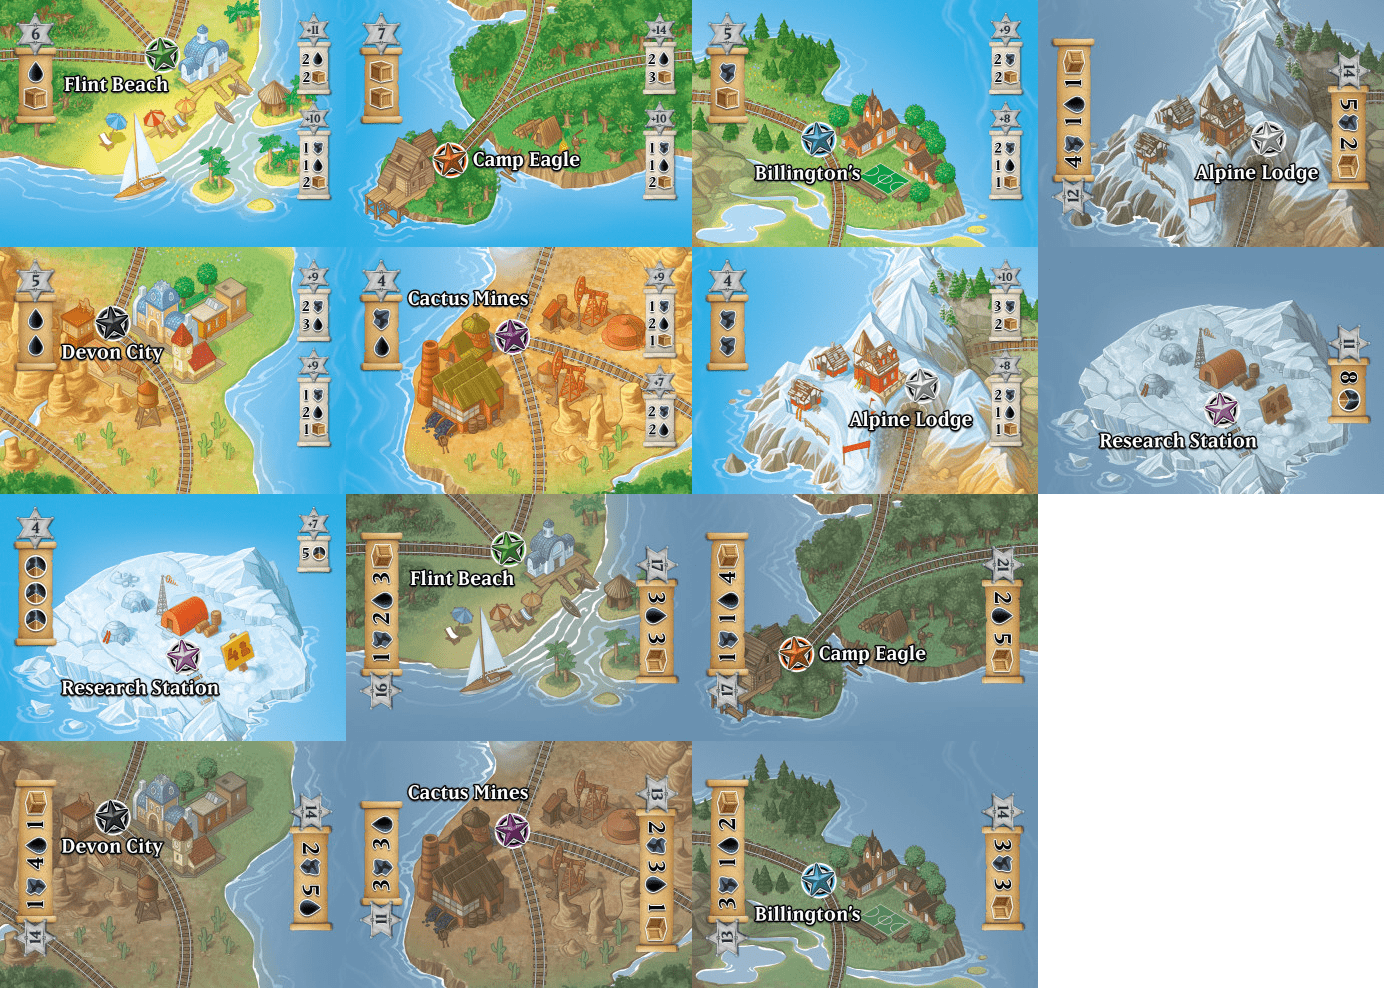
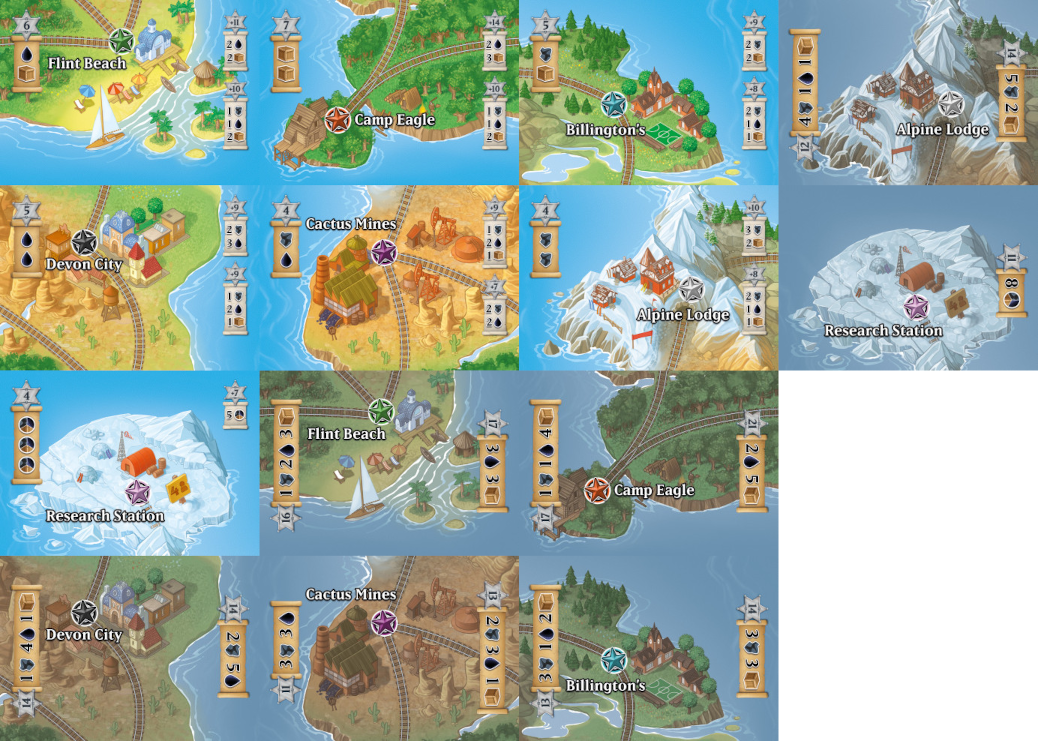
More compact UI

diff --git a/isletrains.css b/isletrains.css
@@ -77,25 +77,52 @@ html {
     gap: 20px;
 }
 
-/* Cards Panel */
-#iot_cards_panel {
+/* Top Panel */
+#iot_top_panel {
     display: flex;
     flex-flow: row wrap;
     justify-content: center;
     align-items: center;
     gap: 20px;
+    margin-top: 15px;
+}
+
+#iot_progress_island_panel {
+    display: flex;
+    flex-flow: column nowrap;
+    justify-content: flex-start;
+    align-items: center;
+    gap: 20px;
+}
+
+/* Cards Panel */
+#iot_deck_display_panel {
+    display: flex;
+    flex-flow: row wrap;
+    justify-content: flex-start;
+    align-items: center;
+    gap: 5px;
+    margin-left: 30px;
+}
+
+#iot_cards_panel {
+    display: flex;
+    flex-flow: column wrap;
+    justify-content: center;
+    align-items: center;
+    gap: 5px;
 }
 
 #iot_deck_container {
     display: grid;
     position: relative;
-    width: 350px;
-    height: 247px;
+    width: 263px;
+    height: 182px;
     place-content: center;
 }
 
 #iot_deck {
-    --gap: -350px;
+    --gap: -263px;
     position: relative;
     display: flex;
     flex-flow: row wrap;
@@ -106,13 +133,20 @@ html {
     margin-left: var(--gap);
     transform: unset !important;
     z-index: unset !important;
-    order: unset !important
+}
+
+#iot_deck_counter_container {
+    display: grid;
+    position: relative;
+    width: 262px;
+    height: 183px;
+    order: 1 !important;
+    place-content: center;
 }
 
 #iot_deck_counter {
-    position: absolute;
-    top: 50px;
-    font-size: 5rem;
+    position: re;
+    font-size: 100px;
     font-weight: 800;
     text-shadow: .05rem 0 .05rem whitesmoke, 0 -.05rem .05rem whitesmoke, 0 .05rem .05rem whitesmoke, -.05rem 0 .05rem whitesmoke;
     z-index: 100;
@@ -123,11 +157,11 @@ html {
     flex-flow: row wrap;
     justify-content: center;
     align-items: center;
-    gap: 20px;
+    gap: 10px;
 }
 
 #iot_discard {
-    --gap: -346px;
+    --gap: -263px;
     position: relative;
     display: flex;
     flex-flow: row wrap;
@@ -167,17 +201,23 @@ html {
     justify-content: flex-start;
     align-items: center;
     gap: 5px;
-    width: 99%;
 }
 
 /* Player Tableau Layout */
+#iot_player_tableaus {
+    display: flex;
+    flex-flow: row wrap;
+    justify-content: center;
+    align-items: center;
+    gap: 15px;
+}
+
 .iot-player-tableau {
     display: flex;
     flex-flow: row wrap;
     justify-content: flex-start;
-    align-items: center;
-    gap: 25px;
-    width: 99%;
+    align-items: flex-end;
+    gap: 10px;
 }
 
 .iot-player-header {
@@ -229,13 +269,13 @@ html {
 .iot-hand-card-count-container {
     display: grid;
     position: relative;
-    width: 71px;
-    height: 100px;
+    width: 53px;
+    height: 75px;
     place-content: center;
 }
 
 .iot-hand-card-counter {
-    font-size: 2rem;
+    font-size: 50px;
     font-weight: 800;
     text-shadow: .05rem 0 .05rem whitesmoke, 0 -.05rem .05rem whitesmoke, 0 .05rem .05rem whitesmoke, -.05rem 0 .05rem whitesmoke;
 }
@@ -252,6 +292,12 @@ html {
     font-size: 1.5rem;
     font-weight: 800;
     text-shadow: .05rem 0 .05rem whitesmoke, 0 -.05rem .05rem whitesmoke, 0 .05rem .05rem whitesmoke, -.05rem 0 .05rem whitesmoke;
+}
+
+.iot-player-passenger-area {
+    display: flex;
+    position: relative;
+    align-items: flex-end;
 }
 
 .iot-player-train {
@@ -281,8 +327,8 @@ html {
 .iot-card {
     display: inline-block;
     position: relative;
-    width: 346px;
-    height: 247px;
+    width: 259.5px;
+    height: 181px;
     border-radius: 10px;
     border: 1px solid;
     box-shadow: 1px 1px 1px 0 #000000a0;
@@ -343,17 +389,12 @@ div.iot-card:hover {
 .iot-destination-tile {
     display: inline-block;
     position: relative;
-    width: 313px;
-    height: 66px;
+    width: 235px;
+    height: 49.5px;
     border-radius: 15px;
     border: 1px solid;
     box-shadow: 1px 1px 1px 0 #000000a0;
     background-image: url('img/iotDestinationTiles.png');
-}
-
-div.iot-destination-tile:hover {
-    transform: scale(1.05);
-    z-index: 100;
 }
 
 .iot-destination-tile-alpine-lodge { background-position: 0 0; }
@@ -367,17 +408,12 @@ div.iot-destination-tile:hover {
 .iot-island-card {
     display: inline-block;
     position: relative;
-    width: 346px;
-    height: 247px;
+    width: 259.5px;
+    height: 181px;
     border-radius: 10px;
     border: 1px solid;
     box-shadow: 1px 1px 1px 0 #000000a0;
     background-image: url('img/iotIslandCards.png');
-}
-
-div.iot-island-card:hover {
-    transform: scale(1.05);
-    z-index: 100;
 }
 
 .iot-island-card-1 { background-position: 0 0; }
@@ -399,20 +435,22 @@ div.iot-island-card:hover {
 .iot-mini-card {
     display: inline-block;
     position: relative;
-    width: 71px;
-    height: 100px;
+    width: 53px;
+    height: 75px;
     border-radius: 5px;
     border: 1px solid;
     box-shadow: 1px 1px 1px 0 #000000a0;
     background-image: url('img/iotMiniCard.png');
+    margin-left: -16px;
+    margin-right: 20px;
 }
 
 /* Passengers */
 .iot-passenger {
     display: inline-block;
     position: relative;
-    width: 53.67px;
-    height: 75px;
+    width: 40.33px;
+    height: 56px;
     background-image: url('img/iotPassengers.png');
 }
 
@@ -421,12 +459,12 @@ div.iot-passenger:hover {
     z-index: 100;
 }
 
-.iot-passenger-6 { background-position: 0 0; }
-.iot-passenger-4 { background-position: 50% 0; }
-.iot-passenger-2 { background-position: 100% 0; }
-.iot-passenger-1 { background-position: 0 100%; }
-.iot-passenger-5 { background-position: 50% 100%; }
-.iot-passenger-3 { background-position: 100% 100%; }
+.iot-passenger-6 { background-position: 100% 100%; }
+.iot-passenger-4 { background-position: 50% 100%; }
+.iot-passenger-2 { background-position: 0 100%; }
+.iot-passenger-1 { background-position: 100% 0; }
+.iot-passenger-5 { background-position: 50% 0; }
+.iot-passenger-3 { background-position: 0 0; }
 
 /* Passenger Bag */
 .iot-passenger-bag {
@@ -479,26 +517,16 @@ div.iot-passenger:hover {
     background-image: url('img/iotTrain.png');
 }
 
-div.iot-progress-train:hover {
-    transform: scale(1.05);
-    z-index: 100;
-}
-
 /* Ticket Tiles */
 .iot-ticket-tile {
     display: inline-block;
     position: relative;
-    width: 313px;
-    height: 117px;
+    width: 235px;
+    height: 87.8px;
     border-radius: 5px;
     border: 1px solid;
     box-shadow: 1px 1px 1px 0 #000000a0;
     background-image: url('img/iotTicketTiles.png');
-}
-
-div.iot-ticket-tile:hover {
-    transform: scale(1.05);
-    z-index: 100;
 }
 
 .iot-ticket-tile-1 { background-position: 0 0; }
@@ -516,10 +544,11 @@ div.iot-ticket-tile:hover {
     display: inline-block;
     position: relative;
     text-align: center;
-    width: 88px;
-    height: 80px;
+    width: 54px;
+    height: 60px;
     top: 13px;
     left: 19px;
+    margin-right: 14px;
 }
 
 /* Weight */

diff --git a/material.inc.php b/material.inc.php
@@ -605,7 +605,7 @@ $this->card = array(
     TYPE_ARG => 4,
     NUMBER => 1,
     COST => 6,
-    POINTS => 8,
+    POINTS => 0,
     PASSENGERS => 0,
     CAPACITY => 0,
     HOLDS => NOTHING,
